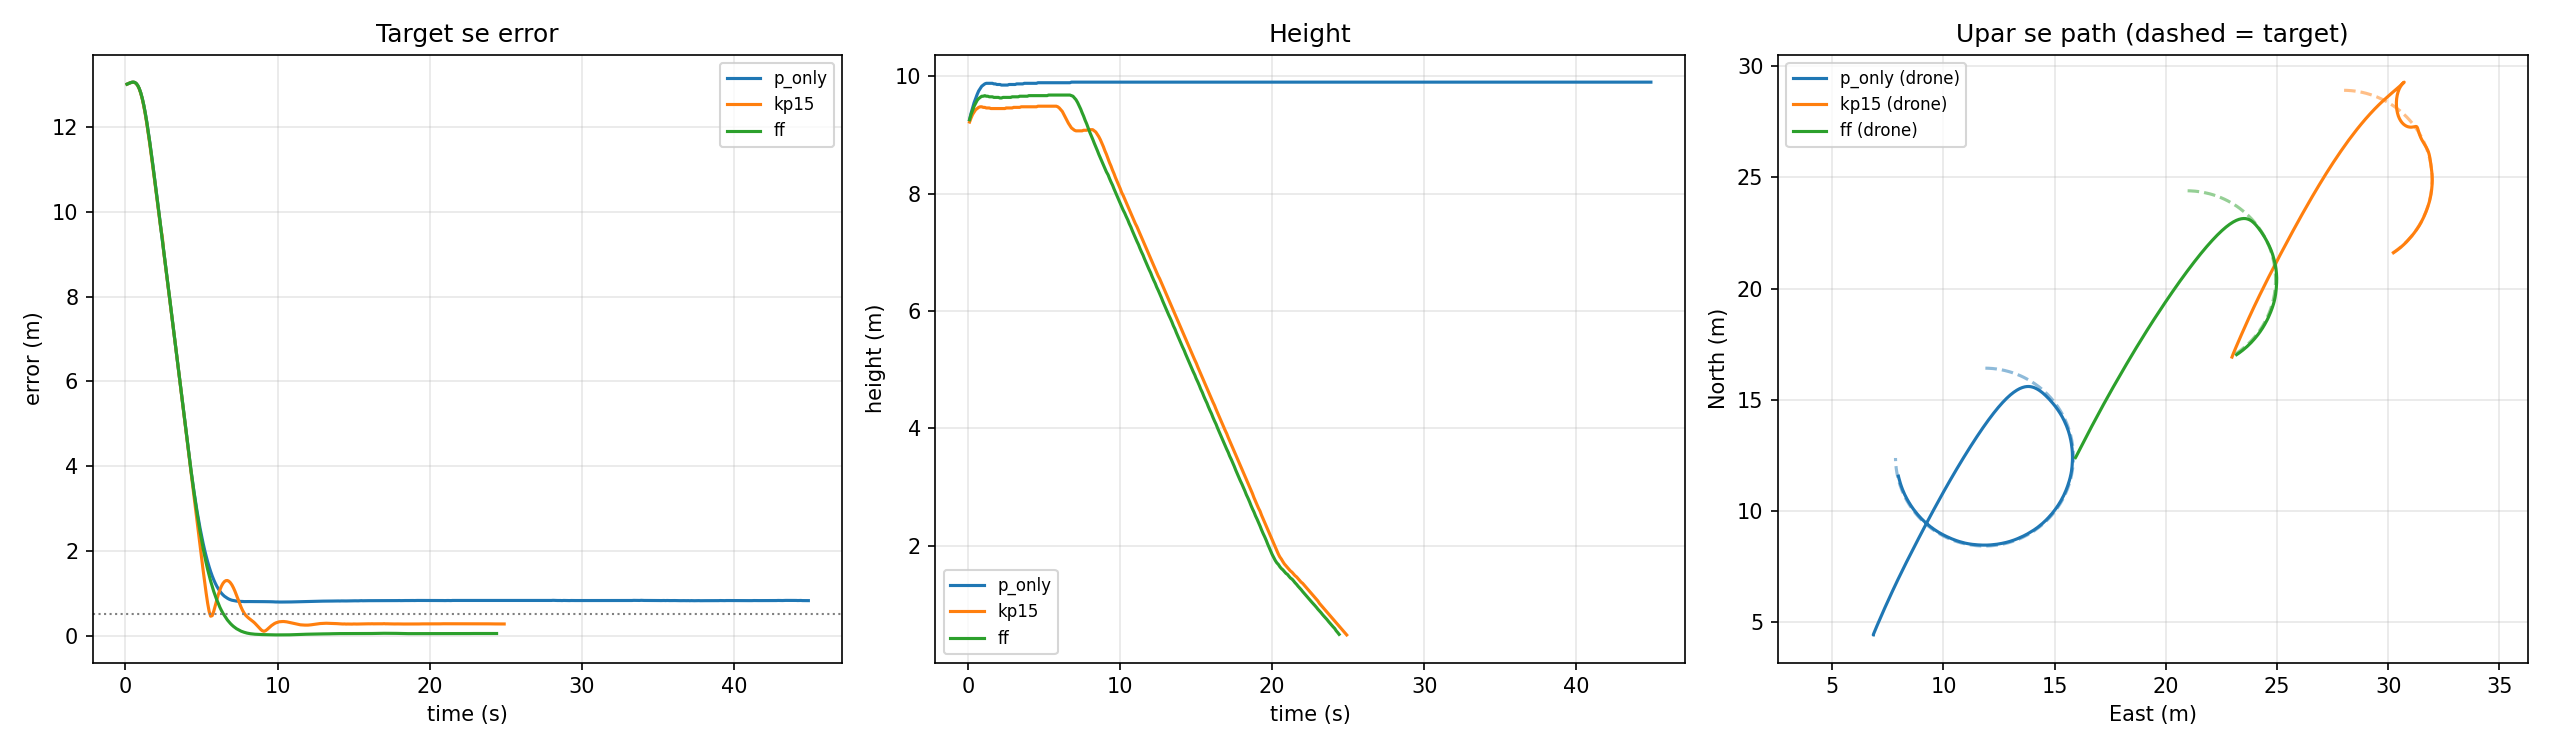
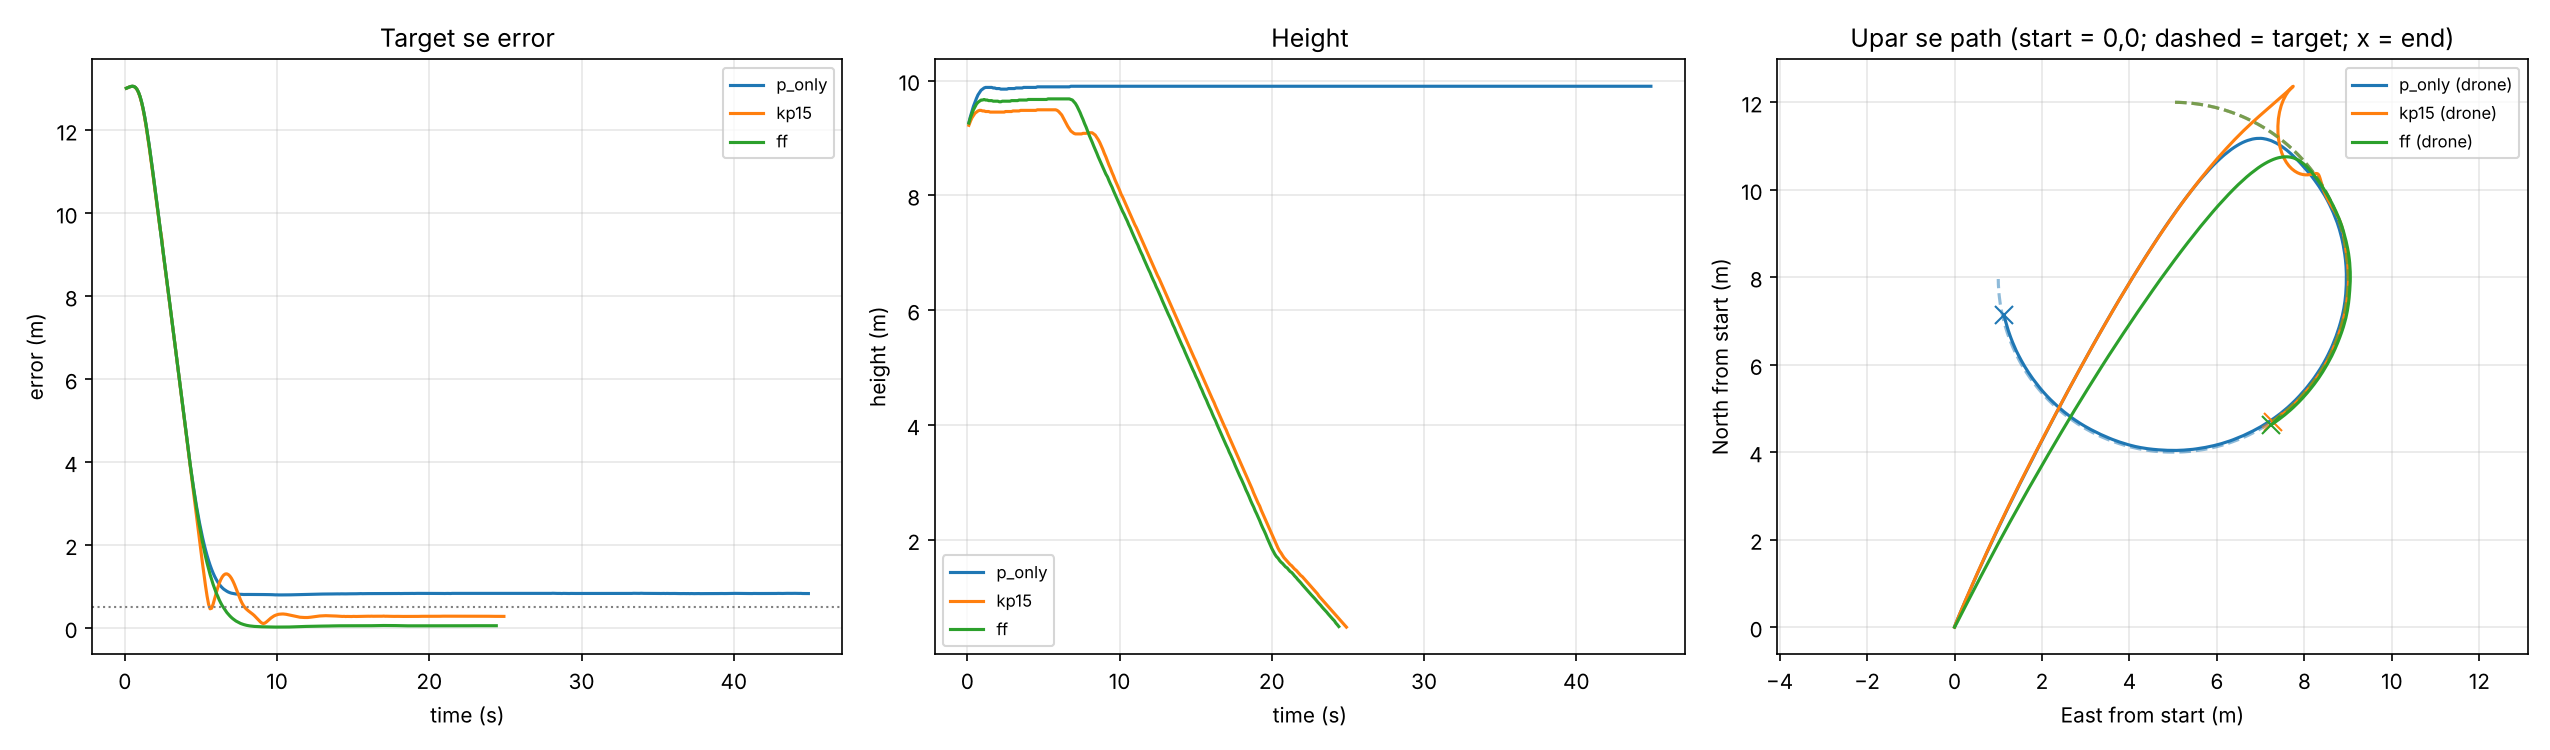
Fix path plot: measure each run from its own start; rename .gitignore

diff --git a/plot_logs.py b/plot_logs.py
@@ -29,13 +29,21 @@ def main():
         name = path.rsplit(".", 1)[0]
         ax1.plot(d["t"], d["error"], label=name)
         ax2.plot(d["t"], d["alt"], label=name)
-        line, = ax3.plot(d["y"], d["x"], label=f"{name} (drone)")
-        ax3.plot(d["ty"], d["tx"], "--", color=line.get_color(), alpha=0.5)
+        # har run apni start position se naapo, taaki sab ek jagah se shuru hon
+        x0, y0 = d["x"][0], d["y"][0]
+        rx = [v - x0 for v in d["x"]]
+        ry = [v - y0 for v in d["y"]]
+        rtx = [v - x0 for v in d["tx"]]
+        rty = [v - y0 for v in d["ty"]]
+        line, = ax3.plot(ry, rx, label=f"{name} (drone)")
+        ax3.plot(rty, rtx, "--", color=line.get_color(), alpha=0.5)
+        ax3.plot(ry[-1], rx[-1], "x", color=line.get_color(), ms=9)
 
     ax1.set(title="Target se error", xlabel="time (s)", ylabel="error (m)")
     ax1.axhline(0.5, color="gray", ls=":", lw=1)
     ax2.set(title="Height", xlabel="time (s)", ylabel="height (m)")
-    ax3.set(title="Upar se path (dashed = target)", xlabel="East (m)", ylabel="North (m)")
+    ax3.set(title="Upar se path (start = 0,0; dashed = target; x = end)",
+            xlabel="East from start (m)", ylabel="North from start (m)")
     ax3.set_aspect("equal", adjustable="datalim")
     for ax in (ax1, ax2, ax3):
         ax.grid(alpha=0.3)
